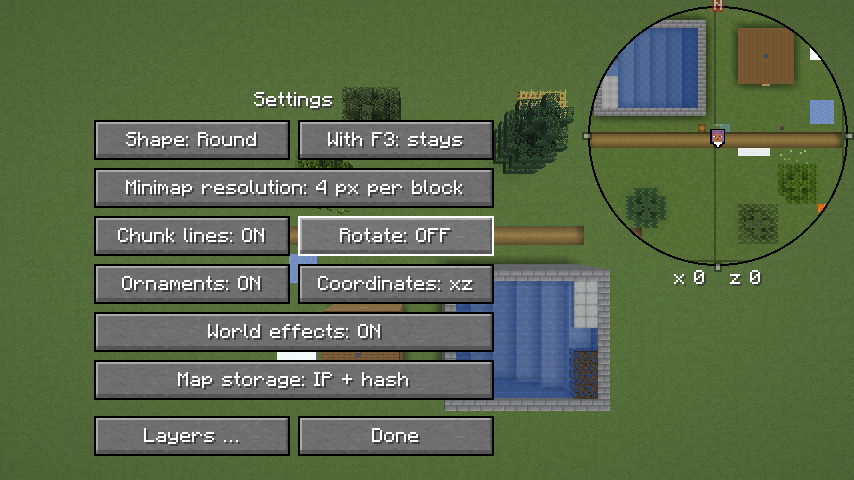
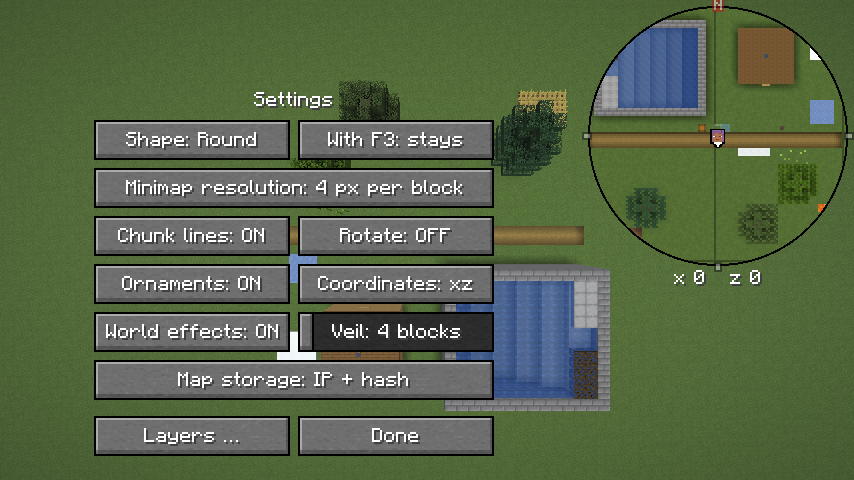
Bilder: der Schleier mit dem Regler auf 16 als Doku-Bild; Untermenü neu aufgenommen

diff --git a/src/gametest/java/com/nekyia/heroicmap/Bilder.java b/src/gametest/java/com/nekyia/heroicmap/Bilder.java
@@ -1191,7 +1191,14 @@ public final class Bilder implements FabricClientGameTest {
         context.runOnClient(mc -> Minimap.INSTANZ.setzeSchleier(Schleier.MAX_HOEHE));
         context.waitFor(mc -> Schleier.INSTANZ.vierecke() > 0 && Schleier.INSTANZ.hoch(0) == Schleier.MAX_HOEHE, 200);
         context.waitTicks(5);
-        context.takeScreenshot(TestScreenshotOptions.of("schleier-16").disableCounterPrefix());
+        Path hoch = context.takeScreenshot(TestScreenshotOptions.of("schleier-16").disableCounterPrefix());
+        if (!AUSGABE.isEmpty()) {
+            try {
+                Files.copy(hoch, Path.of(AUSGABE, "schleier-16.png"), StandardCopyOption.REPLACE_EXISTING);
+            } catch (IOException e) {
+                throw new UncheckedIOException(e);
+            }
+        }
         String falsch = context.computeOnClient(mc -> {
             int n = Schleier.INSTANZ.vierecke();
             for (int i = 0; i < n; i++) {

diff --git a/docs/entwicklung.md b/docs/entwicklung.md
@@ -125,7 +125,7 @@ eines Debuggers greift sie genauso.
 |---|---|
 | `Api` | läuft als erster: die Ebene, die `ProbeEbene` über den Entrypoint `heroicmap` beim Start anlegt, in der Liste der Vollbildkarte, mit Nadel und Formen, ohne Banner; sie übersteht eine Liste vom Server und das Trennen, eine Ebene vom Server mit derselben Kennung verdeckt sie, `remove` nimmt sie weg; siehe [API für Client-Mods](api.md) |
 | `Anmeldung` | die Reihenfolge beim Login: Beim ersten Level gibt es den Spieler noch nicht, wohl aber die Verbindung des Levels, aus der `Downloads.server` liest, siehe [Download](download.md), „Ablage“ |
-| `Bilder` | baut eine Szene und nimmt die Minimap auf, danach das Menü und die Vollbildkarte aus einem Testsatz mit zwei Wegpunkten, das Untermenü „Einstellungen …“, jeden Rahmen eckig und rund und das Menü mit Rahmen, auch mit halben Marken und dem Tooltip, die drehende Minimap, das ganze Fenster bei 854 × 480 und 1280 × 720 mit der Seite im Verhältnis, die Szene `formen` mit Flächen, Kreis, Linie und Kartenschrift und der offenen Liste der Ebenen, die Szene `orte` mit Nadeln, einem Banner und ihren Namen, gleich gross auf zwei Stufen der Vollbildkarte, und „Unicode-Schrift erzwingen“, das die Generation der Kartenschrift hebt, die Strahlen zweier angehefteter Wegpunkte in der Welt, den Schleier einer angehefteten Region am Hang, zuletzt die selbst gezeichnete Karte der Szene, in der Einzelspielerwelt mit 2 px gewählt über die Knöpfe und den Umschalter, neben der Minimap, die als beschäftigt gilt, auch mit Chunklinien; mit `-Pbilder=<ordner>` landen die Bilder dort, siehe [Minimap](minimap.md), „Bilder“, und [Vollbildkarte](vollbildkarte.md), „Bild“; ein Banner mit Entwurf und Krone als Sprite um seinen Fuss, am Bildschirmfoto geprüft; ein Banner einer geheimen Ebene, dessen Sprite über den Kanal kommt, am Bildschirmfoto um seinen Fuss; die Tafel bei 1920 × 1080 bei GUI-Massstab 4 so gross wie bei 2, gemessen an der Linie ihres Rahmens (`Bilder.tafelMassstab`) |
+| `Bilder` | baut eine Szene und nimmt die Minimap auf, danach das Menü und die Vollbildkarte aus einem Testsatz mit zwei Wegpunkten, das Untermenü „Einstellungen …“, jeden Rahmen eckig und rund und das Menü mit Rahmen, auch mit halben Marken und dem Tooltip, die drehende Minimap, das ganze Fenster bei 854 × 480 und 1280 × 720 mit der Seite im Verhältnis, die Szene `formen` mit Flächen, Kreis, Linie und Kartenschrift und der offenen Liste der Ebenen, die Szene `orte` mit Nadeln, einem Banner und ihren Namen, gleich gross auf zwei Stufen der Vollbildkarte, und „Unicode-Schrift erzwingen“, das die Generation der Kartenschrift hebt, die Strahlen zweier angehefteter Wegpunkte in der Welt, den Schleier einer angehefteten Region am Hang, mit dem Regler auf 16 dieselbe Zahl Vierecke, 16 Blöcke hoch und unten zu 90 % deckend, zuletzt die selbst gezeichnete Karte der Szene, in der Einzelspielerwelt mit 2 px gewählt über die Knöpfe und den Umschalter, neben der Minimap, die als beschäftigt gilt, auch mit Chunklinien; mit `-Pbilder=<ordner>` landen die Bilder dort, siehe [Minimap](minimap.md), „Bilder“, und [Vollbildkarte](vollbildkarte.md), „Bild“; ein Banner mit Entwurf und Krone als Sprite um seinen Fuss, am Bildschirmfoto geprüft; ein Banner einer geheimen Ebene, dessen Sprite über den Kanal kommt, am Bildschirmfoto um seinen Fuss; die Tafel bei 1920 × 1080 bei GUI-Massstab 4 so gross wie bei 2, gemessen an der Linie ihres Rahmens (`Bilder.tafelMassstab`) |
 | `Bedienung` | leert zu Beginn den Ordner der Einzelspielerwelt (`Bilder.leereWelt`), wie `Bilder`; das Menü und die Vollbildkarte mit echten Eingaben der Maus (`TestInput`): „Hierher teleportieren“ über Wasser auf die Oberfläche und in einen Chunk, den weder Client noch Server geladen haben, mit dem Boden der Karte von einem Server auf loopback, genau ein Abruf (`Bedienung.teleport`); Klicks und Halten wie von Hand, mit 1 bis 2 Pixeln Zittern zwischen Drücken und Loslassen (`Bedienung.zittere`); im Menü verschiebt Ziehen mit der linken wie der rechten Taste die ganze Minimap, auch vom Spieler aus; ein Klick auf den Spieler schaltet die Darstellung, einer auf eine Marke den Rahmen, auch mit Drehen an, wo das Menü genordet bleibt, mit Verzierungen aus und ohne Rahmen auf den halben Marken, im Untermenü ebenso; ein Klick auf die Karte daneben schaltet nichts, Ziehen von einer Marke verschiebt nur, der Griff ändert nur die Grösse, der Zoom nur den Zoom; auf der Karte verschiebt links ziehen den Inhalt, ein Linksklick öffnet kein Menü, ein Rechtsklick öffnet „Hierher teleportieren“, ein Klick darauf teleportiert; Wegpunkte setzen, ziehen und klicken auf Marken am Rand, Doppelklick, Wegpunkt am eigenen Standort, einen Kreis und eine Nadel vom Server und ein altes Rechteck anheften; eine Region und eine Linie aus Wegpunkten bauen, die Region per Doppelklick anheften und löschen; Punkte im Tempo eines Spielers anfügen, und ein schneller Klick auf einen zweiten Wegpunkt ist kein Doppelklick auf den ersten; einen Wegpunkt nach 0,5 s Halten verschieben; eine Region auf leerer Karte bauen, Ecken treffen, löschen, einfügen und verschieben; eine Ecke live ziehen, die Linie folgt im Bildschirmfoto schon vor dem Loslassen, und eine Region am Griff in der Mitte verschieben (`Bedienung.formenZiehen`); Wegpunkt, Ecke und Griff unter der Maus hell umrandet, daneben nicht (`Bedienung.schweben`); einer Region am Griff einen Namen geben, ändern und nehmen, die Kartentaste und `Esc` im Feld schliessen die Karte nicht, der Name steht im Bildschirmfoto unter dem Griff (`Bedienung.namen`); eine eigene Farbe am Griff, ungültig bleibt das Feld offen, der Rand steht im Bildschirmfoto in ihr (`Bedienung.farbe`); der Regler „Schleier“ mit Klicks an beide Enden und in die Mitte (`Bedienung.schleierRegler`); die Liste der Ebenen aufklappen, eine Ebene mit „An/Aus“ aus- und anschalten, auch per Doppelklick, ohne dass etwas angeheftet wird, per Doppelklick auf den Namen ganz anheften und lösen, zuklappen; Menü und Untermenü bei 1280 × 720 und GUI-Massstab 3; F3 mit der Taste, „Bei F3“ auf Mitte, weg und bleibt (`Bedienung.beiF3`); siehe [Minimap](minimap.md), „Bedienung“, [Vollbildkarte](vollbildkarte.md), „Bedienung“, und [Wegpunkte](wegpunkte.md), „Tests“ |
 | `Strom` | der erste Download als ein Strom von einem Server auf loopback, der an zwei Stellen anhält: die Vollbildkarte ohne Satz mit dem Kasten des Fortschritts und ohne Hinweis in der Mitte (`strom-ohne-karte`), dann die Karte ab der gröbsten Stufe mit dem Kasten (`strom-karte`); am Ende alle Kacheln gleich, `strom.txt` weg und 100 % der angekündigten Bytes. Gegenproben: ein Name mit `..` legt nichts ab, auch ausserhalb nicht; der Server bricht jedes Mal mitten in der vierten Kachel ab und versteht `nach`; der Mod setzt fort, bis zwei Versuche nichts Neues bringen, dann liegen die ersten Kacheln ganz da, keine halbe, die vierte nicht, keine Zwischendatei, und `strom.txt` nennt die letzte ganze; siehe [Download](download.md), „Strom“, und [Vollbildkarte](vollbildkarte.md), „Fortschritt“ |
 | `Blockentities` | Truhe, Tür, Schild und Kopf, im Einzelspieler und mit `-Peula` auf einem Server des Tests gesetzt und abgebaut wie ein Spieler, mit Rechts- und Linksklick; die Minimap zeigt sie ohne weiteres Zutun, verglichen am Bildschirmfoto an der Stelle des Blocks. Mit Sodium über `-Psodium`; siehe [Minimap](minimap.md), „Neu zeichnen“ |

diff --git a/docs/minimap.md b/docs/minimap.md
@@ -59,7 +59,7 @@ steht unter „Kosten“.
 Das Untermenü „Einstellungen …“ hält, was man selten ändert; das Hauptmenü
 bleibt so kurz. „Fertig“ führt zurück ins Menü:
 
-![Das Untermenü über der Szene des Gametests, die Minimap rund mit Chunklinien, halben Marken auf dem Ring und den Koordinaten darunter; „Form“ neben „Bei F3“, „Chunklinien“ neben „Drehen“, unten „Ebenen …“ neben „Fertig“](bilder/anzeige.png)
+![Das Untermenü über der Szene des Gametests, die Minimap rund mit Chunklinien, halben Marken auf dem Ring und den Koordinaten darunter; „Form“ neben „Bei F3“, „Chunklinien“ neben „Drehen“, „Effekte in der Welt“ neben dem Regler „Schleier“, unten „Ebenen …“ neben „Fertig“](bilder/anzeige.png)
 
 | Einstellung | Vorgabe | tut |
 |---|---|---|

diff --git a/docs/wegpunkte.md b/docs/wegpunkte.md
@@ -207,6 +207,8 @@ nach oben immer durchsichtiger.
   dazu. Eine andere Höhe baut neu, wie eine andere Sichtweite. Gewünscht
   vom User am 18.10.: „ein Regler, der Höhe und Deckkraft zusammen
   hebt“.
+
+  ![Dieselbe Region wie oben mit dem Regler auf 16 Blöcken: der Schleier viermal so hoch und unten deckender; Szene `schleier` des Gametests](bilder/schleier-16.png)
 - **Gelände:** Die Ecken unten stehen auf der Heightmap
   `MOTION_BLOCKING_NO_LEAVES` des Clients, also unter dem Laub und auf der
   Oberfläche von Wasser, wie der Strahl. Der Client hat `WORLD_SURFACE`,
